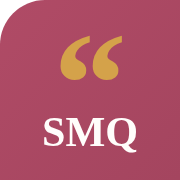
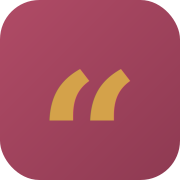
Add files via upload

diff --git a/styles.css b/styles.css
@@ -233,3 +233,23 @@ footer.mega .legal{grid-column:1/-1;border-top:1px solid rgba(255,255,255,.12);m
 .gen-form .btn{width:100%;margin-top:6px;justify-content:center}
 .gen-result{white-space:pre-wrap;font-family:'Fraunces',serif;font-size:1.08rem;line-height:1.6;color:var(--ink);min-height:180px;background:var(--paper);border-radius:12px;padding:20px;border:1px solid var(--line-soft)}
 @media(max-width:720px){.gen-body{grid-template-columns:1fr}}
+
+/* ---------- Footer: keep the column blocks horizontal whether or not
+   they are wrapped in a .cols container (display:contents lets the inner
+   columns become direct grid items of .wrap) ---------- */
+footer.mega .cols{display:contents}
+
+/* ---------- Account control: avatar, dropdown menu and buttons ---------- */
+.acct{position:relative;display:inline-flex;align-items:center;margin-left:10px}
+.signin-btn{display:inline-flex;align-items:center;gap:6px;background:var(--grad-accent);color:#fff;font-weight:800;font-family:inherit;font-size:.9rem;padding:9px 18px;border-radius:999px;border:0;cursor:pointer;box-shadow:0 6px 16px -6px rgba(176,75,102,.5);transition:transform .2s var(--ease),box-shadow .2s var(--ease)}
+.signin-btn:hover{color:#fff;transform:translateY(-1px);box-shadow:0 10px 22px -8px rgba(176,75,102,.6)}
+.avatar{width:40px;height:40px;border-radius:999px;border:0;cursor:pointer;background:var(--grad-accent);color:#fff;font-weight:800;font-family:inherit;font-size:1.02rem;display:inline-flex;align-items:center;justify-content:center;box-shadow:0 5px 14px -5px rgba(176,75,102,.55);transition:transform .2s var(--ease),box-shadow .2s var(--ease)}
+.avatar:hover{transform:translateY(-1px);box-shadow:0 9px 20px -7px rgba(176,75,102,.6)}
+.acct-menu{position:absolute;top:calc(100% + 12px);right:0;min-width:230px;background:var(--cream);border:1px solid var(--line);border-radius:16px;padding:16px;box-shadow:0 20px 44px -14px rgba(46,39,51,.3);opacity:0;visibility:hidden;transform:translateY(-6px);transition:opacity .18s var(--ease),transform .18s var(--ease),visibility .18s;z-index:60}
+.acct-menu.open{opacity:1;visibility:visible;transform:translateY(0)}
+.acct-menu::before{content:'';position:absolute;top:-7px;right:15px;width:12px;height:12px;background:var(--cream);border-left:1px solid var(--line);border-top:1px solid var(--line);transform:rotate(45deg)}
+.acct-menu .em{font-weight:700;color:var(--ink);font-size:.9rem;margin:0 0 3px;word-break:break-all}
+.acct-menu .reassure{color:var(--muted);font-size:.82rem;margin:0}
+.acct-menu hr{border:0;border-top:1px solid var(--line);margin:12px 0}
+.acct-menu .signout{width:100%;background:var(--blush);color:var(--accent-dark);border:0;border-radius:999px;padding:10px 14px;font-weight:800;font-family:inherit;font-size:.88rem;cursor:pointer;transition:background .2s var(--ease)}
+.acct-menu .signout:hover{background:var(--gold-soft)}

diff --git a/app.html b/app.html
@@ -21,7 +21,7 @@
 <link rel="preconnect" href="https://fonts.googleapis.com">
 <link rel="preconnect" href="https://fonts.gstatic.com" crossorigin>
 <link href="https://fonts.googleapis.com/css2?family=Fraunces:ital,wght@0,500;0,600;0,700;1,500&family=Karla:wght@400;700;800&display=swap" rel="stylesheet">
-<link rel="stylesheet" href="/styles.css?v=4">
+<link rel="stylesheet" href="/styles.css?v=5">
 <script async src="https://pagead2.googlesyndication.com/pagead/js/adsbygoogle.js?client=ca-pub-4138594802747479" crossorigin="anonymous"></script>
 <style>
 .tabs{display:flex;gap:6px;padding:10px 0;flex-wrap:wrap}
@@ -30,8 +30,14 @@
 .panel{display:none}
 .panel.active{display:block}
 .maker{display:grid;grid-template-columns:1fr 1fr;gap:24px;align-items:start;margin-top:18px}
-@media(max-width:820px){.maker{grid-template-columns:1fr}}
-.stage{background:var(--grad-warm,var(--wash));border:1px solid var(--line-soft,var(--line));border-radius:var(--radius-lg,24px);padding:22px;text-align:center;box-shadow:var(--shadow-md,0 8px 30px -8px rgba(46,39,51,.14))}
+@media(max-width:820px){
+  .maker{grid-template-columns:1fr}
+  header.site{position:static}
+  .stage{position:sticky;top:0;z-index:20;padding:12px;border-radius:0 0 20px 20px;box-shadow:0 12px 22px -14px rgba(46,39,51,.55)}
+  .stage canvas#cv{max-height:38vh;width:auto;max-width:100%}
+  .stage .note{font-size:.76rem;margin:6px 0 0}
+}
+.stage{background:var(--grad-warm,var(--wash));border:1px solid var(--line-soft,var(--line));border-radius:var(--radius-lg,24px);padding:22px;text-align:center;box-shadow:var(--shadow-md,0 8px 30px -8px rgba(46,39,51,.14));position:sticky;top:112px;align-self:start}
 canvas#cv{max-width:100%;height:auto;border-radius:12px;box-shadow:0 3px 8px rgba(55,48,63,.16), 0 26px 50px -22px rgba(55,48,63,.7)}
 .field{margin-bottom:16px}
 .field label{display:block;font-weight:800;font-size:.85rem;margin-bottom:6px;letter-spacing:.04em;text-transform:uppercase;color:var(--muted)}
@@ -72,6 +78,7 @@ textarea{min-height:88px;resize:vertical}
 </style>
 <link rel="icon" type="image/svg+xml" href="/favicon.svg">
 <link rel="icon" type="image/png" sizes="32x32" href="/favicon-32.png">
+<link rel="icon" type="image/png" sizes="48x48" href="/favicon-48.png">
 <link rel="apple-touch-icon" href="/apple-touch-icon.png">
 <script type="application/ld+json">{"@context":"https://schema.org","@type":"WebApplication","name":"Strong Mom Quotes Card Maker","applicationCategory":"DesignApplication","operatingSystem":"Any","offers":{"@type":"Offer","price":"0","priceCurrency":"USD"},"url":"https://strongmomquotes.com/app.html","publisher":{"@type":"Organization","name":"Strong Mom Quotes","url":"https://strongmomquotes.com/"}}</script>
 </head>

diff --git a/affirmations-asking-for-help.html b/affirmations-asking-for-help.html
@@ -16,12 +16,13 @@
 <meta name="twitter:description" content="Affirmations for Asking for Help that acknowledge the hard parts, never toxic positivity. Free to read, copy or turn into a card to keep.">
 <link rel="icon" type="image/svg+xml" href="/favicon.svg">
 <link rel="icon" type="image/png" sizes="32x32" href="/favicon-32.png">
+<link rel="icon" type="image/png" sizes="48x48" href="/favicon-48.png">
 <link rel="apple-touch-icon" href="/apple-touch-icon.png">
 <link rel="manifest" href="/manifest.json">
 <link rel="preconnect" href="https://fonts.googleapis.com">
 <link rel="preconnect" href="https://fonts.gstatic.com" crossorigin>
 <link href="https://fonts.googleapis.com/css2?family=Fraunces:ital,wght@0,500;0,600;0,700;1,500&family=Karla:wght@400;700;800&display=swap" rel="stylesheet">
-<link rel="stylesheet" href="/styles.css?v=4">
+<link rel="stylesheet" href="/styles.css?v=5">
 <script async src="https://pagead2.googlesyndication.com/pagead/js/adsbygoogle.js?client=ca-pub-4138594802747479" crossorigin="anonymous"></script>
 <script type="application/ld+json">{"@context": "https://schema.org", "@type": "BreadcrumbList", "itemListElement": [{"@type": "ListItem", "position": 1, "name": "Strong Mom Quotes", "item": "https://strongmomquotes.com/"}, {"@type": "ListItem", "position": 2, "name": "Affirmations", "item": "https://strongmomquotes.com/affirmations-hub.html"}, {"@type": "ListItem", "position": 3, "name": "Affirmations for Asking for Help", "item": "https://strongmomquotes.com/affirmations-asking-for-help.html"}]}</script>
 <script type="application/ld+json">{"@context": "https://schema.org", "@type": "CollectionPage", "name": "Affirmations for Asking for Help | Strong Mom Quotes", "description": "Affirmations for Asking for Help that acknowledge the hard parts, never toxic positivity. Free to read, copy or turn into a card to keep.", "url": "https://strongmomquotes.com/affirmations-asking-for-help.html", "isPartOf": {"@type": "WebSite", "name": "Strong Mom Quotes", "url": "https://strongmomquotes.com/"}}</script>

diff --git a/affirmations-for-dads.html b/affirmations-for-dads.html
@@ -16,12 +16,13 @@
 <meta name="twitter:description" content="Affirmations for Dads that acknowledge the hard parts, never toxic positivity. Free to read, copy or turn into a card to keep.">
 <link rel="icon" type="image/svg+xml" href="/favicon.svg">
 <link rel="icon" type="image/png" sizes="32x32" href="/favicon-32.png">
+<link rel="icon" type="image/png" sizes="48x48" href="/favicon-48.png">
 <link rel="apple-touch-icon" href="/apple-touch-icon.png">
 <link rel="manifest" href="/manifest.json">
 <link rel="preconnect" href="https://fonts.googleapis.com">
 <link rel="preconnect" href="https://fonts.gstatic.com" crossorigin>
 <link href="https://fonts.googleapis.com/css2?family=Fraunces:ital,wght@0,500;0,600;0,700;1,500&family=Karla:wght@400;700;800&display=swap" rel="stylesheet">
-<link rel="stylesheet" href="/styles.css?v=4">
+<link rel="stylesheet" href="/styles.css?v=5">
 <script async src="https://pagead2.googlesyndication.com/pagead/js/adsbygoogle.js?client=ca-pub-4138594802747479" crossorigin="anonymous"></script>
 <script type="application/ld+json">{"@context": "https://schema.org", "@type": "BreadcrumbList", "itemListElement": [{"@type": "ListItem", "position": 1, "name": "Strong Mom Quotes", "item": "https://strongmomquotes.com/"}, {"@type": "ListItem", "position": 2, "name": "For Dads & Single Parents", "item": "https://strongmomquotes.com/dads-hub.html"}, {"@type": "ListItem", "position": 3, "name": "Affirmations for Dads", "item": "https://strongmomquotes.com/affirmations-for-dads.html"}]}</script>
 <script type="application/ld+json">{"@context": "https://schema.org", "@type": "CollectionPage", "name": "Affirmations for Dads: Honest Words That Actually Help", "description": "Affirmations for Dads that acknowledge the hard parts, never toxic positivity. Free to read, copy or turn into a card to keep.", "url": "https://strongmomquotes.com/affirmations-for-dads.html", "isPartOf": {"@type": "WebSite", "name": "Strong Mom Quotes", "url": "https://strongmomquotes.com/"}}</script>

diff --git a/affirmations-for-exhausted-moms.html b/affirmations-for-exhausted-moms.html
@@ -16,12 +16,13 @@
 <meta name="twitter:description" content="Affirmations for Exhausted Moms that acknowledge the hard parts, never toxic positivity. Free to read, copy or turn into a card.">
 <link rel="icon" type="image/svg+xml" href="/favicon.svg">
 <link rel="icon" type="image/png" sizes="32x32" href="/favicon-32.png">
+<link rel="icon" type="image/png" sizes="48x48" href="/favicon-48.png">
 <link rel="apple-touch-icon" href="/apple-touch-icon.png">
 <link rel="manifest" href="/manifest.json">
 <link rel="preconnect" href="https://fonts.googleapis.com">
 <link rel="preconnect" href="https://fonts.gstatic.com" crossorigin>
 <link href="https://fonts.googleapis.com/css2?family=Fraunces:ital,wght@0,500;0,600;0,700;1,500&family=Karla:wght@400;700;800&display=swap" rel="stylesheet">
-<link rel="stylesheet" href="/styles.css?v=4">
+<link rel="stylesheet" href="/styles.css?v=5">
 <script async src="https://pagead2.googlesyndication.com/pagead/js/adsbygoogle.js?client=ca-pub-4138594802747479" crossorigin="anonymous"></script>
 <script type="application/ld+json">{"@context": "https://schema.org", "@type": "BreadcrumbList", "itemListElement": [{"@type": "ListItem", "position": 1, "name": "Strong Mom Quotes", "item": "https://strongmomquotes.com/"}, {"@type": "ListItem", "position": 2, "name": "Affirmations", "item": "https://strongmomquotes.com/affirmations-hub.html"}, {"@type": "ListItem", "position": 3, "name": "Affirmations for Exhausted Moms", "item": "https://strongmomquotes.com/affirmations-for-exhausted-moms.html"}]}</script>
 <script type="application/ld+json">{"@context": "https://schema.org", "@type": "CollectionPage", "name": "Affirmations for Exhausted Moms | Strong Mom Quotes", "description": "Affirmations for Exhausted Moms that acknowledge the hard parts, never toxic positivity. Free to read, copy or turn into a card.", "url": "https://strongmomquotes.com/affirmations-for-exhausted-moms.html", "isPartOf": {"@type": "WebSite", "name": "Strong Mom Quotes", "url": "https://strongmomquotes.com/"}}</script>

diff --git a/affirmations-for-mom-rage.html b/affirmations-for-mom-rage.html
@@ -16,12 +16,13 @@
 <meta name="twitter:description" content="Affirmations for Mom Rage that acknowledge the hard parts, never toxic positivity. Free to read, copy or turn into a card to keep.">
 <link rel="icon" type="image/svg+xml" href="/favicon.svg">
 <link rel="icon" type="image/png" sizes="32x32" href="/favicon-32.png">
+<link rel="icon" type="image/png" sizes="48x48" href="/favicon-48.png">
 <link rel="apple-touch-icon" href="/apple-touch-icon.png">
 <link rel="manifest" href="/manifest.json">
 <link rel="preconnect" href="https://fonts.googleapis.com">
 <link rel="preconnect" href="https://fonts.gstatic.com" crossorigin>
 <link href="https://fonts.googleapis.com/css2?family=Fraunces:ital,wght@0,500;0,600;0,700;1,500&family=Karla:wght@400;700;800&display=swap" rel="stylesheet">
-<link rel="stylesheet" href="/styles.css?v=4">
+<link rel="stylesheet" href="/styles.css?v=5">
 <script async src="https://pagead2.googlesyndication.com/pagead/js/adsbygoogle.js?client=ca-pub-4138594802747479" crossorigin="anonymous"></script>
 <script type="application/ld+json">{"@context": "https://schema.org", "@type": "BreadcrumbList", "itemListElement": [{"@type": "ListItem", "position": 1, "name": "Strong Mom Quotes", "item": "https://strongmomquotes.com/"}, {"@type": "ListItem", "position": 2, "name": "Affirmations", "item": "https://strongmomquotes.com/affirmations-hub.html"}, {"@type": "ListItem", "position": 3, "name": "Affirmations for Mom Rage", "item": "https://strongmomquotes.com/affirmations-for-mom-rage.html"}]}</script>
 <script type="application/ld+json">{"@context": "https://schema.org", "@type": "CollectionPage", "name": "Affirmations for Mom Rage: Honest Words That Actually Help", "description": "Affirmations for Mom Rage that acknowledge the hard parts, never toxic positivity. Free to read, copy or turn into a card to keep.", "url": "https://strongmomquotes.com/affirmations-for-mom-rage.html", "isPartOf": {"@type": "WebSite", "name": "Strong Mom Quotes", "url": "https://strongmomquotes.com/"}}</script>

diff --git a/affirmations-for-moms.html b/affirmations-for-moms.html
@@ -16,12 +16,13 @@
 <meta name="twitter:description" content="Affirmations for Moms that acknowledge the hard parts, never toxic positivity. Free to read, copy or turn into a card to keep.">
 <link rel="icon" type="image/svg+xml" href="/favicon.svg">
 <link rel="icon" type="image/png" sizes="32x32" href="/favicon-32.png">
+<link rel="icon" type="image/png" sizes="48x48" href="/favicon-48.png">
 <link rel="apple-touch-icon" href="/apple-touch-icon.png">
 <link rel="manifest" href="/manifest.json">
 <link rel="preconnect" href="https://fonts.googleapis.com">
 <link rel="preconnect" href="https://fonts.gstatic.com" crossorigin>
 <link href="https://fonts.googleapis.com/css2?family=Fraunces:ital,wght@0,500;0,600;0,700;1,500&family=Karla:wght@400;700;800&display=swap" rel="stylesheet">
-<link rel="stylesheet" href="/styles.css?v=4">
+<link rel="stylesheet" href="/styles.css?v=5">
 <script async src="https://pagead2.googlesyndication.com/pagead/js/adsbygoogle.js?client=ca-pub-4138594802747479" crossorigin="anonymous"></script>
 <script type="application/ld+json">{"@context": "https://schema.org", "@type": "BreadcrumbList", "itemListElement": [{"@type": "ListItem", "position": 1, "name": "Strong Mom Quotes", "item": "https://strongmomquotes.com/"}, {"@type": "ListItem", "position": 2, "name": "Affirmations", "item": "https://strongmomquotes.com/affirmations-hub.html"}, {"@type": "ListItem", "position": 3, "name": "Affirmations for Moms", "item": "https://strongmomquotes.com/affirmations-for-moms.html"}]}</script>
 <script type="application/ld+json">{"@context": "https://schema.org", "@type": "CollectionPage", "name": "Affirmations for Moms: Honest Words That Actually Help", "description": "Affirmations for Moms that acknowledge the hard parts, never toxic positivity. Free to read, copy or turn into a card to keep.", "url": "https://strongmomquotes.com/affirmations-for-moms.html", "isPartOf": {"@type": "WebSite", "name": "Strong Mom Quotes", "url": "https://strongmomquotes.com/"}}</script>

diff --git a/affirmations-for-overwhelmed-moms.html b/affirmations-for-overwhelmed-moms.html
@@ -16,12 +16,13 @@
 <meta name="twitter:description" content="Affirmations for Overwhelmed Moms that acknowledge the hard parts, never toxic positivity. Free to read, copy or turn into a card.">
 <link rel="icon" type="image/svg+xml" href="/favicon.svg">
 <link rel="icon" type="image/png" sizes="32x32" href="/favicon-32.png">
+<link rel="icon" type="image/png" sizes="48x48" href="/favicon-48.png">
 <link rel="apple-touch-icon" href="/apple-touch-icon.png">
 <link rel="manifest" href="/manifest.json">
 <link rel="preconnect" href="https://fonts.googleapis.com">
 <link rel="preconnect" href="https://fonts.gstatic.com" crossorigin>
 <link href="https://fonts.googleapis.com/css2?family=Fraunces:ital,wght@0,500;0,600;0,700;1,500&family=Karla:wght@400;700;800&display=swap" rel="stylesheet">
-<link rel="stylesheet" href="/styles.css?v=4">
+<link rel="stylesheet" href="/styles.css?v=5">
 <script async src="https://pagead2.googlesyndication.com/pagead/js/adsbygoogle.js?client=ca-pub-4138594802747479" crossorigin="anonymous"></script>
 <script type="application/ld+json">{"@context": "https://schema.org", "@type": "BreadcrumbList", "itemListElement": [{"@type": "ListItem", "position": 1, "name": "Strong Mom Quotes", "item": "https://strongmomquotes.com/"}, {"@type": "ListItem", "position": 2, "name": "Affirmations", "item": "https://strongmomquotes.com/affirmations-hub.html"}, {"@type": "ListItem", "position": 3, "name": "Affirmations for Overwhelmed Moms", "item": "https://strongmomquotes.com/affirmations-for-overwhelmed-moms.html"}]}</script>
 <script type="application/ld+json">{"@context": "https://schema.org", "@type": "CollectionPage", "name": "Affirmations for Overwhelmed Moms | Strong Mom Quotes", "description": "Affirmations for Overwhelmed Moms that acknowledge the hard parts, never toxic positivity. Free to read, copy or turn into a card.", "url": "https://strongmomquotes.com/affirmations-for-overwhelmed-moms.html", "isPartOf": {"@type": "WebSite", "name": "Strong Mom Quotes", "url": "https://strongmomquotes.com/"}}</script>

diff --git a/affirmations-for-single-parents.html b/affirmations-for-single-parents.html
@@ -16,12 +16,13 @@
 <meta name="twitter:description" content="Affirmations for Single Parents that acknowledge the hard parts, never toxic positivity. Free to read, copy or turn into a card to keep.">
 <link rel="icon" type="image/svg+xml" href="/favicon.svg">
 <link rel="icon" type="image/png" sizes="32x32" href="/favicon-32.png">
+<link rel="icon" type="image/png" sizes="48x48" href="/favicon-48.png">
 <link rel="apple-touch-icon" href="/apple-touch-icon.png">
 <link rel="manifest" href="/manifest.json">
 <link rel="preconnect" href="https://fonts.googleapis.com">
 <link rel="preconnect" href="https://fonts.gstatic.com" crossorigin>
 <link href="https://fonts.googleapis.com/css2?family=Fraunces:ital,wght@0,500;0,600;0,700;1,500&family=Karla:wght@400;700;800&display=swap" rel="stylesheet">
-<link rel="stylesheet" href="/styles.css?v=4">
+<link rel="stylesheet" href="/styles.css?v=5">
 <script async src="https://pagead2.googlesyndication.com/pagead/js/adsbygoogle.js?client=ca-pub-4138594802747479" crossorigin="anonymous"></script>
 <script type="application/ld+json">{"@context": "https://schema.org", "@type": "BreadcrumbList", "itemListElement": [{"@type": "ListItem", "position": 1, "name": "Strong Mom Quotes", "item": "https://strongmomquotes.com/"}, {"@type": "ListItem", "position": 2, "name": "For Dads & Single Parents", "item": "https://strongmomquotes.com/dads-hub.html"}, {"@type": "ListItem", "position": 3, "name": "Affirmations for Single Parents", "item": "https://strongmomquotes.com/affirmations-for-single-parents.html"}]}</script>
 <script type="application/ld+json">{"@context": "https://schema.org", "@type": "CollectionPage", "name": "Affirmations for Single Parents | Strong Mom Quotes", "description": "Affirmations for Single Parents that acknowledge the hard parts, never toxic positivity. Free to read, copy or turn into a card to keep.", "url": "https://strongmomquotes.com/affirmations-for-single-parents.html", "isPartOf": {"@type": "WebSite", "name": "Strong Mom Quotes", "url": "https://strongmomquotes.com/"}}</script>

diff --git a/baby-announcement-captions.html b/baby-announcement-captions.html
@@ -16,12 +16,13 @@
 <meta name="twitter:description" content="Baby Announcement Captions built for the scroll: short, real, copy in one tap. Or drop one onto a matching card. Currently free.">
 <link rel="icon" type="image/svg+xml" href="/favicon.svg">
 <link rel="icon" type="image/png" sizes="32x32" href="/favicon-32.png">
+<link rel="icon" type="image/png" sizes="48x48" href="/favicon-48.png">
 <link rel="apple-touch-icon" href="/apple-touch-icon.png">
 <link rel="manifest" href="/manifest.json">
 <link rel="preconnect" href="https://fonts.googleapis.com">
 <link rel="preconnect" href="https://fonts.gstatic.com" crossorigin>
 <link href="https://fonts.googleapis.com/css2?family=Fraunces:ital,wght@0,500;0,600;0,700;1,500&family=Karla:wght@400;700;800&display=swap" rel="stylesheet">
-<link rel="stylesheet" href="/styles.css?v=4">
+<link rel="stylesheet" href="/styles.css?v=5">
 <script async src="https://pagead2.googlesyndication.com/pagead/js/adsbygoogle.js?client=ca-pub-4138594802747479" crossorigin="anonymous"></script>
 <script type="application/ld+json">{"@context": "https://schema.org", "@type": "BreadcrumbList", "itemListElement": [{"@type": "ListItem", "position": 1, "name": "Strong Mom Quotes", "item": "https://strongmomquotes.com/"}, {"@type": "ListItem", "position": 2, "name": "Captions & Occasions", "item": "https://strongmomquotes.com/captions-hub.html"}, {"@type": "ListItem", "position": 3, "name": "Baby Announcement Captions", "item": "https://strongmomquotes.com/baby-announcement-captions.html"}]}</script>
 <script type="application/ld+json">{"@context": "https://schema.org", "@type": "CollectionPage", "name": "Baby Announcement Captions: One-Liners That Fit the Photo", "description": "Baby Announcement Captions built for the scroll: short, real, copy in one tap. Or drop one onto a matching card. Currently free.", "url": "https://strongmomquotes.com/baby-announcement-captions.html", "isPartOf": {"@type": "WebSite", "name": "Strong Mom Quotes", "url": "https://strongmomquotes.com/"}}</script>

diff --git a/back-to-work-affirmations.html b/back-to-work-affirmations.html
@@ -16,12 +16,13 @@
 <meta name="twitter:description" content="Back to Work Affirmations for Moms that acknowledge the hard parts, never toxic positivity. Free to read, copy or turn into a card to keep.">
 <link rel="icon" type="image/svg+xml" href="/favicon.svg">
 <link rel="icon" type="image/png" sizes="32x32" href="/favicon-32.png">
+<link rel="icon" type="image/png" sizes="48x48" href="/favicon-48.png">
 <link rel="apple-touch-icon" href="/apple-touch-icon.png">
 <link rel="manifest" href="/manifest.json">
 <link rel="preconnect" href="https://fonts.googleapis.com">
 <link rel="preconnect" href="https://fonts.gstatic.com" crossorigin>
 <link href="https://fonts.googleapis.com/css2?family=Fraunces:ital,wght@0,500;0,600;0,700;1,500&family=Karla:wght@400;700;800&display=swap" rel="stylesheet">
-<link rel="stylesheet" href="/styles.css?v=4">
+<link rel="stylesheet" href="/styles.css?v=5">
 <script async src="https://pagead2.googlesyndication.com/pagead/js/adsbygoogle.js?client=ca-pub-4138594802747479" crossorigin="anonymous"></script>
 <script type="application/ld+json">{"@context": "https://schema.org", "@type": "BreadcrumbList", "itemListElement": [{"@type": "ListItem", "position": 1, "name": "Strong Mom Quotes", "item": "https://strongmomquotes.com/"}, {"@type": "ListItem", "position": 2, "name": "Affirmations", "item": "https://strongmomquotes.com/affirmations-hub.html"}, {"@type": "ListItem", "position": 3, "name": "Back to Work Affirmations for Moms", "item": "https://strongmomquotes.com/back-to-work-affirmations.html"}]}</script>
 <script type="application/ld+json">{"@context": "https://schema.org", "@type": "CollectionPage", "name": "Back to Work Affirmations for Moms | Strong Mom Quotes", "description": "Back to Work Affirmations for Moms that acknowledge the hard parts, never toxic positivity. Free to read, copy or turn into a card to keep.", "url": "https://strongmomquotes.com/back-to-work-affirmations.html", "isPartOf": {"@type": "WebSite", "name": "Strong Mom Quotes", "url": "https://strongmomquotes.com/"}}</script>

diff --git a/bedtime-affirmations-for-moms.html b/bedtime-affirmations-for-moms.html
@@ -16,12 +16,13 @@
 <meta name="twitter:description" content="Bedtime Affirmations for Moms that acknowledge the hard parts, never toxic positivity. Free to read, copy or turn into a card.">
 <link rel="icon" type="image/svg+xml" href="/favicon.svg">
 <link rel="icon" type="image/png" sizes="32x32" href="/favicon-32.png">
+<link rel="icon" type="image/png" sizes="48x48" href="/favicon-48.png">
 <link rel="apple-touch-icon" href="/apple-touch-icon.png">
 <link rel="manifest" href="/manifest.json">
 <link rel="preconnect" href="https://fonts.googleapis.com">
 <link rel="preconnect" href="https://fonts.gstatic.com" crossorigin>
 <link href="https://fonts.googleapis.com/css2?family=Fraunces:ital,wght@0,500;0,600;0,700;1,500&family=Karla:wght@400;700;800&display=swap" rel="stylesheet">
-<link rel="stylesheet" href="/styles.css?v=4">
+<link rel="stylesheet" href="/styles.css?v=5">
 <script async src="https://pagead2.googlesyndication.com/pagead/js/adsbygoogle.js?client=ca-pub-4138594802747479" crossorigin="anonymous"></script>
 <script type="application/ld+json">{"@context": "https://schema.org", "@type": "BreadcrumbList", "itemListElement": [{"@type": "ListItem", "position": 1, "name": "Strong Mom Quotes", "item": "https://strongmomquotes.com/"}, {"@type": "ListItem", "position": 2, "name": "Affirmations", "item": "https://strongmomquotes.com/affirmations-hub.html"}, {"@type": "ListItem", "position": 3, "name": "Bedtime Affirmations for Moms", "item": "https://strongmomquotes.com/bedtime-affirmations-for-moms.html"}]}</script>
 <script type="application/ld+json">{"@context": "https://schema.org", "@type": "CollectionPage", "name": "Bedtime Affirmations for Moms | Strong Mom Quotes", "description": "Bedtime Affirmations for Moms that acknowledge the hard parts, never toxic positivity. Free to read, copy or turn into a card.", "url": "https://strongmomquotes.com/bedtime-affirmations-for-moms.html", "isPartOf": {"@type": "WebSite", "name": "Strong Mom Quotes", "url": "https://strongmomquotes.com/"}}</script>